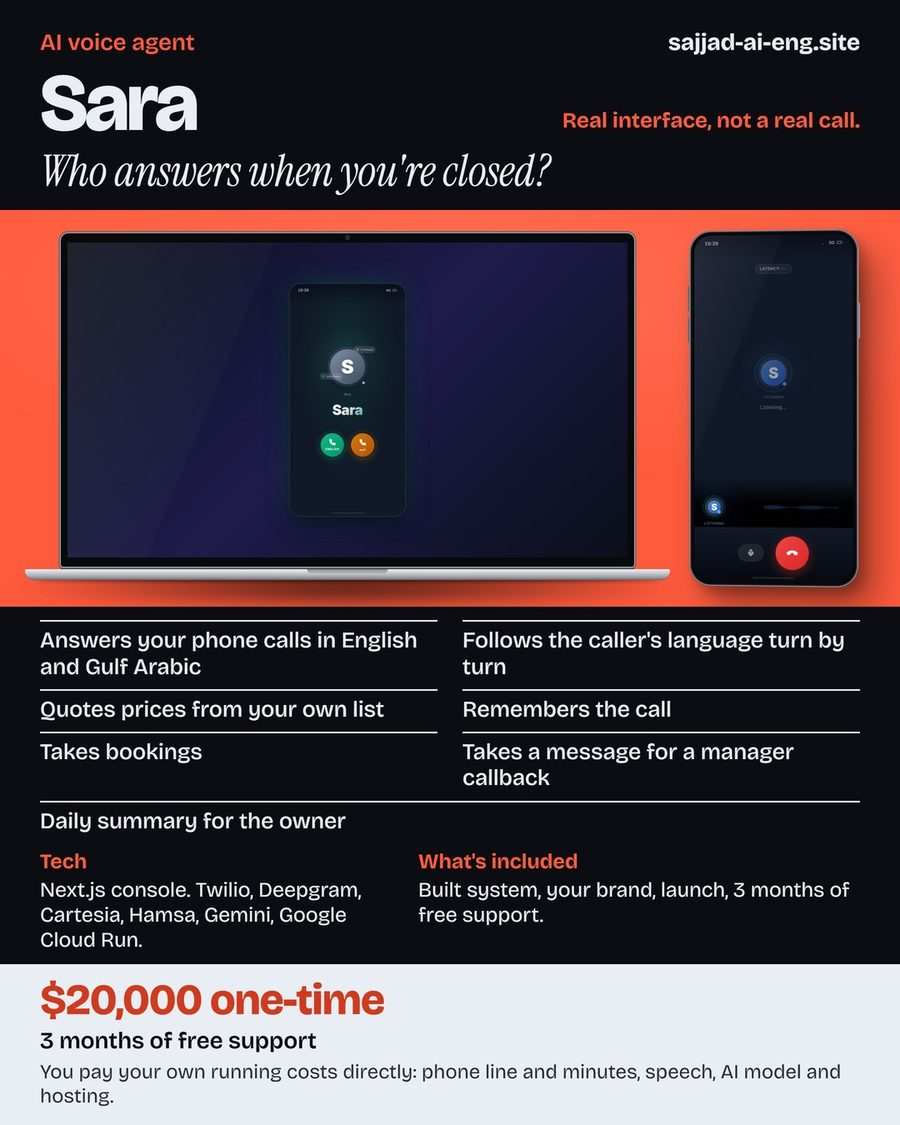
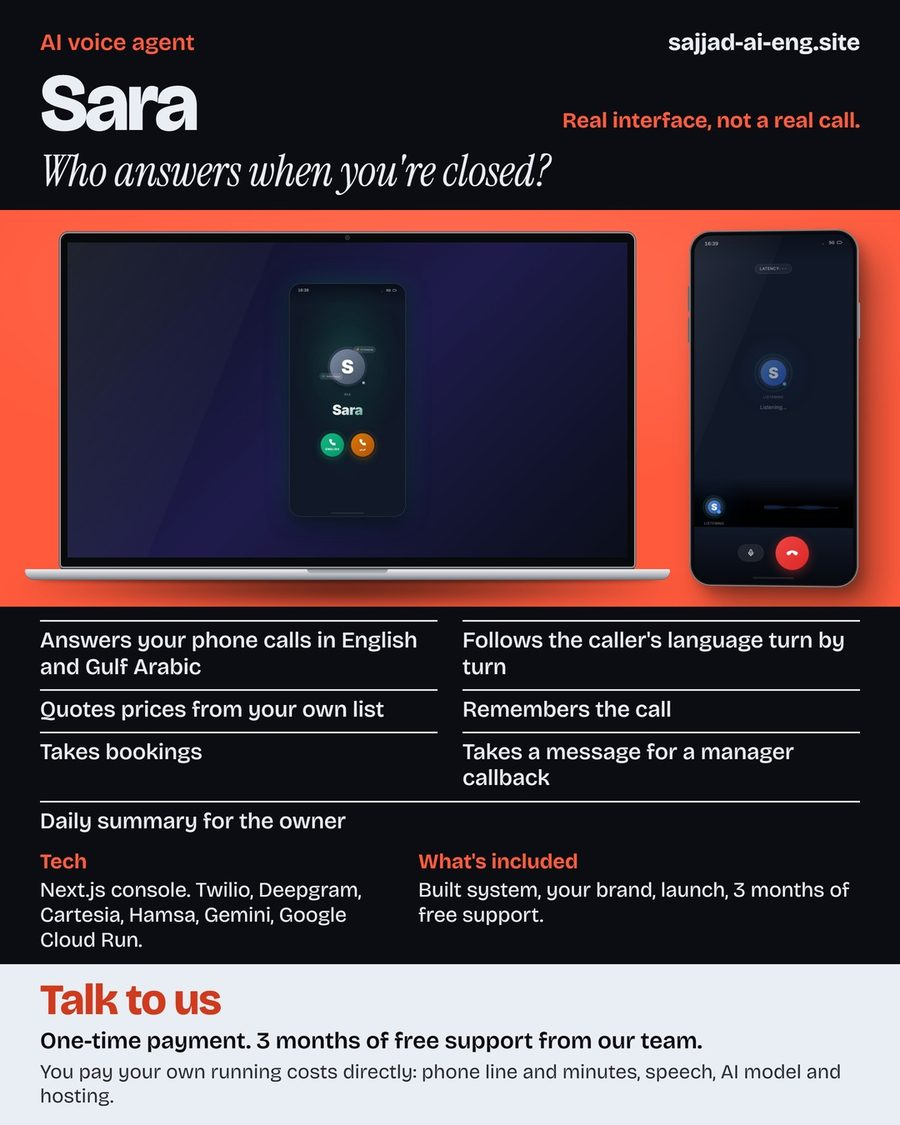
Project pages: Talk to us, prices only in home pricing section
Project pages show no prices and lead to a WhatsApp conversation.
The home pricing section keeps two starting prices plus custom work.
VIN Wear reads as a site in progress for a US client. Selling images
refreshed to match.

Changed region(s): [[0.0311, 0.8711, 0.7778, 0.9333]]

diff --git a/my-portfolio/src/app/(p2)/_parts/sections/PricingBlock.tsx b/my-portfolio/src/app/(p2)/_parts/sections/PricingBlock.tsx
@@ -4,76 +4,62 @@ import SectionHead from "../SectionHead";
 import {
   contact,
   pricing,
-  services,
+  pricingSmallPrint,
 } from "@/app/portfolio-content/site-content";
 
 /* ── Pricing ──────────────────────────────────────────────────────
-   Their three 420px cards under a centred head, middle card black.
-   Differences are deliberate: no dollar figures (none exist — a null
-   price renders "Custom · quoted per scope", see `pricing` in
-   site-content) and no "BEST SELLER" tag (an unverifiable sales
-   claim); the middle card keeps the visual emphasis only. Each card
-   is one of the three real services, capabilities and all. */
+   Starting prices, not a checkout: the figure shows whether a budget
+   fits, and every card leads to a conversation. */
 export function PricingBlock() {
   return (
     <>
-      {/* Same head as Works: title left, one-line intro on the right. It
-          was the only centred head on the page. */}
       <div className="p2-split p2-split--head">
-        <SectionHead eyebrow="Pricing" title="Priced to the project, not the hour" />
+        <SectionHead eyebrow="Pricing" title="Start ready-built, or go custom" />
         <p className="p2-lede">
-          Every job is quoted against a written scope before it starts — send
-          the brief, get a number and a timeline back.
+          Tell us what you sell and we&rsquo;ll suggest the best fit, with a clear
+          scope before any work starts.
         </p>
       </div>
       <div className="p2-price-grid">
         {pricing.map((t, i) => {
-          const s = services[t.service];
+          const message = `Hi Sajjad, I found your portfolio and would like to talk about: ${t.title}.`;
           return (
             <Reveal
               as="article"
               dir="up"
               delay={i * 100}
               className={`p2-price${t.featured ? " p2-price--dark" : ""}`}
-              key={s.title}
+              key={t.title}
             >
               <div className="p2-price__in">
-                <h5>{s.title}</h5>
-                <p className="p2-price__sub">{s.sub}</p>
+                <h5>{t.title}</h5>
+                <p className="p2-price__sub">{t.sub}</p>
+                <p className="p2-price__from">{t.price ? "Starting from" : "Price"}</p>
                 <div className="p2-price__fig">
-                  {t.price ? (
-                    <>
-                      <b>{t.price}</b>
-                      <span>{t.per}</span>
-                    </>
-                  ) : (
-                    <>
-                      <b>{t.per === "/month" ? "Monthly plan" : "Fixed quote"}</b>
-                      <span>per written scope</span>
-                    </>
-                  )}
+                  <b>{t.price ?? "Let\u2019s talk"}</b>
+                  <span>{t.note}</span>
                 </div>
                 <span className="p2-price__lbl">Includes:</span>
                 <ul>
-                  {s.capabilities.slice(0, 4).map((c) => (
+                  {t.includes.map((c) => (
                     <li key={c}>{c}</li>
                   ))}
                 </ul>
               </div>
-              {/* Full-width flush bar, not an inline button inside the
-                  card's own padding — checked live: their CHOOSE strip
-                  runs edge to edge along the card's bottom border. */}
               <a
                 className="p2-price__cta"
-                href={`mailto:${contact.inbox}?subject=${encodeURIComponent(`${s.title} — project enquiry`)}`}
+                href={`https://wa.me/${contact.whatsapp.digits}?text=${encodeURIComponent(message)}`}
+                target="_blank"
+                rel="noopener noreferrer"
               >
-                Get a quote <span aria-hidden="true">&#8599;</span>
+                Talk to us <span aria-hidden="true">&#8599;</span>
               </a>
             </Reveal>
           );
         })}
       </div>
       <SliderDots />
+      <p className="p2-price-note">{pricingSmallPrint}</p>
     </>
   );
 }

diff --git a/my-portfolio/src/app/portfolio-content/site-content.ts b/my-portfolio/src/app/portfolio-content/site-content.ts
@@ -398,29 +398,61 @@ export const services = [
 ];
 
 /* ── Pricing ──────────────────────────────────────────────────────
-   One tier per service above — `service` indexes into `services`, so
-   the card's name and capability list always match the real offering.
-
-   ⚠ `price` IS NULL ON PURPOSE. No real rates have been set, and the
-   pricing section never shows an invented number: a null renders as
-   "Custom · quoted per scope". Put a real figure in as a string
-   ("$1,200") and it takes the slot; `per` only shows alongside a real
-   price. `featured` is visual emphasis only — the reference's "BEST
-   SELLER" tag is a sales claim we cannot verify, so it is not
-   reproduced. */
+   Starting prices, so a visitor can tell if the budget fits, then a
+   conversation. `price: null` means no figure is published. */
 export type PriceTier = {
-  service: number;
+  title: string;
+  sub: string;
   price: string | null;
-  per: string;
+  note: string;
+  includes: string[];
   featured?: boolean;
 };
 
 export const pricing: PriceTier[] = [
-  { service: 0, price: null, per: "/project" },
-  { service: 1, price: null, per: "/project", featured: true },
-  { service: 2, price: null, per: "/project" },
-  { service: 3, price: null, per: "/month" },
+  {
+    title: "E-commerce Store",
+    sub: "Ready-built, launched with your brand",
+    price: "$12,000",
+    note: "One-time payment",
+    includes: [
+      "Live search and filters",
+      "Cart and checkout",
+      "Full admin panel",
+      "Your branding and products added",
+      "3 months of free support",
+    ],
+  },
+  {
+    title: "AI Voice Agent",
+    sub: "Answers your phone calls",
+    price: "$20,000",
+    note: "One-time payment",
+    includes: [
+      "English and Gulf Arabic",
+      "Quotes prices from your own list",
+      "Remembers the call",
+      "Takes bookings",
+      "3 months of free support",
+    ],
+    featured: true,
+  },
+  {
+    title: "Custom Work",
+    sub: "When ready-built is not the right fit",
+    price: null,
+    note: "Quoted per written scope",
+    includes: [
+      "Web platforms and business websites",
+      "AI and automation projects",
+      "Remote work with your team",
+      "Ongoing management and support",
+    ],
+  },
 ];
+
+export const pricingSmallPrint =
+  "Hosting, gateway and usage fees go to those providers. With the voice agent, you pay your own running costs directly: phone line and minutes, speech, AI model and hosting.";
 
 /* ── Projects ─────────────────────────────────────────────────────
    `status: "pending"` renders the card dimmed with a hatched image
@@ -451,7 +483,7 @@ type Project = {
    so a card and its page cannot disagree. */
 const cardMeta: Record<string, { category: string; tech: string }> = {
   zushap: { category: "Online store · Our own build", tech: "Medusa · Next.js" },
-  vinwear: { category: "Online store · USA", tech: "Medusa · Next.js" },
+  vinwear: { category: "Site in progress · US client", tech: "Medusa · Next.js" },
   sara: { category: "AI voice agent · English and Gulf Arabic", tech: "FastAPI · Gemini · Deepgram" },
   madleen: { category: "Online fashion store", tech: "Medusa · Next.js" },
   uktop: { category: "Business website · UK", tech: "Next.js 16" },

diff --git a/my-portfolio/src/app/portfolio-content/project-pages.ts b/my-portfolio/src/app/portfolio-content/project-pages.ts
@@ -36,11 +36,13 @@ export type ProjectPage = {
   summary: string;
   features: string[];
   details: { label: string; value: string }[];
-  price: { headline: string; sub?: string; small?: string };
+  /* Left out for client work in progress: no price and no sales call to action. */
+  price?: { headline: string; sub?: string; small?: string };
+  status?: { headline: string; sub: string };
   /* Shown beside the images when they could be misread. */
   notice?: string;
   site?: { label: string; href: string };
-  cta: string;
+  cta?: string;
   images: {
     hero: StaticImageData;
     wide: StaticImageData;
@@ -63,7 +65,7 @@ export type ProjectPage = {
 const STORE_INCLUDED =
   "We add your branding and products, connect your payment gateway, and launch.";
 const STORE_PRICE = {
-  headline: "Ready-built store from $12,000",
+  headline: "Talk to us",
   sub: "One-time payment. 3 months of free support from our team.",
   small: "Hosting, gateway and usage fees go to those providers.",
 };
@@ -107,8 +109,8 @@ export const projectPages: ProjectPage[] = [
   {
     slug: "vinwear",
     name: "VIN Wear",
-    label: "Store we worked on",
-    line: "Your product has a story. This store tells it.",
+    label: "In progress for a US client",
+    line: "A car-culture store, still being built.",
     summary:
       "A car-culture clothing store that shows how far a store can carry one idea, with a registration card and a write-your-own VIN box on the product page.",
     features: [
@@ -121,11 +123,10 @@ export const projectPages: ProjectPage[] = [
       "Checkout with validation and delivery choice",
     ],
     details: [
-      { label: "What's included", value: STORE_INCLUDED },
+      { label: "In this build", value: "Product pages, live search, filters, cart and checkout." },
       { label: "Tech", value: "Medusa backend. Next.js storefront. Postgres." },
     ],
-    price: STORE_PRICE,
-    cta: STORE_CTA,
+    status: { headline: "Site in progress", sub: "Being built for a client in the US." },
     images: { hero: vinwear, wide: vinwearWide, feed: vinwearFeed, story: vinwearStory },
     colors: {
       hero: "#12161f",
@@ -159,8 +160,8 @@ export const projectPages: ProjectPage[] = [
       { label: "Tech", value: "Next.js console. Twilio, Deepgram, Cartesia, Hamsa, Gemini, Google Cloud Run." },
     ],
     price: {
-      headline: "$20,000 one-time",
-      sub: "3 months of free support from our team.",
+      headline: "Talk to us",
+      sub: "One-time payment. 3 months of free support from our team.",
       small: "You pay your own running costs directly: phone line and minutes, speech, AI model and hosting.",
     },
     notice: "Real interface, not a real call.",

diff --git a/my-portfolio/src/app/(p2)/work/[slug]/page.tsx b/my-portfolio/src/app/(p2)/work/[slug]/page.tsx
@@ -78,9 +78,11 @@ export default async function ProjectPage({ params }: Props) {
           <p className="pj-line">{p.line}</p>
           <p className="pj-sum">{p.summary}</p>
           <div className="pj-actions">
-            <a className="pj-btn" href={whatsapp} target="_blank" rel="noopener noreferrer">
-              Talk to us <span aria-hidden="true">&#8599;</span>
-            </a>
+            {p.price ? (
+              <a className="pj-btn" href={whatsapp} target="_blank" rel="noopener noreferrer">
+                Talk to us <span aria-hidden="true">&#8599;</span>
+              </a>
+            ) : null}
             {p.site ? (
               <a className="pj-btn pj-btn--ghost" href={p.site.href} target="_blank" rel="noopener noreferrer">
                 {p.site.label} <span aria-hidden="true">&#8599;</span>
@@ -155,19 +157,28 @@ export default async function ProjectPage({ params }: Props) {
         </div>
       </section>
 
-      <section className="pj-band">
-        <div>
-          <p className="pj-price">{p.price.headline}</p>
-          {p.price.sub ? <p className="pj-price__sub">{p.price.sub}</p> : null}
-          {p.price.small ? <p className="pj-price__small">{p.price.small}</p> : null}
-        </div>
-        <div className="pj-band__go">
-          <p>{p.cta}</p>
-          <Link className="pj-btn pj-btn--band" href="/contact">
-            Start a project <span aria-hidden="true">&#8599;</span>
-          </Link>
-        </div>
-      </section>
+      {p.price ? (
+        <section className="pj-band">
+          <div>
+            <p className="pj-price">{p.price.headline}</p>
+            {p.price.sub ? <p className="pj-price__sub">{p.price.sub}</p> : null}
+            {p.price.small ? <p className="pj-price__small">{p.price.small}</p> : null}
+          </div>
+          <div className="pj-band__go">
+            <p>{p.cta}</p>
+            <a className="pj-btn pj-btn--band" href={whatsapp} target="_blank" rel="noopener noreferrer">
+              Chat on WhatsApp <span aria-hidden="true">&#8599;</span>
+            </a>
+          </div>
+        </section>
+      ) : p.status ? (
+        <section className="pj-band">
+          <div>
+            <p className="pj-price">{p.status.headline}</p>
+            <p className="pj-price__sub">{p.status.sub}</p>
+          </div>
+        </section>
+      ) : null}
 
       <Link className="pj-next" href={`/work/${next.slug}`}>
         <span>Next project</span>

diff --git a/my-portfolio/src/app/(p2)/p2.css b/my-portfolio/src/app/(p2)/p2.css
@@ -2906,3 +2906,13 @@ main:focus { outline: none; }
 .p2-earlier .p2-link { display: inline-block; margin-top: 10px; }
 .p2-work-head { margin-bottom: 28px; }
 @media (max-width: 900px) { .p2-earlier { grid-template-columns: minmax(0, 1fr); } }
+
+/* Pricing: a starting figure above the number, small print below the grid. */
+.p2 .p2-price__from { margin: 28px 0 -18px; font-size: .9375rem; font-weight: 600; color: var(--p2-ink); }
+.p2 .p2-price--dark .p2-price__from { color: var(--p2-white); }
+.p2-price-note { margin: 24px 0 0; max-width: 62em; font-size: .9375rem; color: var(--p2-muted); }
+@media (min-width: 1001px) {
+  .p2 .p2-price-grid { grid-template-columns: repeat(3, minmax(0, 1fr)); }
+  .p2 .p2-price__sub { min-height: 3.4em; }
+}
+.p2 .p2-price:not(.p2-price--dark) .p2-price__fig b { color: var(--p2-ink); }

diff --git a/my-portfolio/src/app/(p2)/page.tsx b/my-portfolio/src/app/(p2)/page.tsx
@@ -90,10 +90,7 @@ export default function Portfolio2() {
           <section>. */}
       <WhyChooseBlock />
 
-      {/* ── Pricing ──
-          No real rates exist yet, so every card reads "Custom · quoted
-          per scope" — set figures in `pricing` in site-content and they
-          take the slot. */}
+      {/* ── Pricing ── starting prices, each card leading to a conversation. */}
       <section className="p2-sec" id="pricing">
         <PricingBlock />
       </section>
